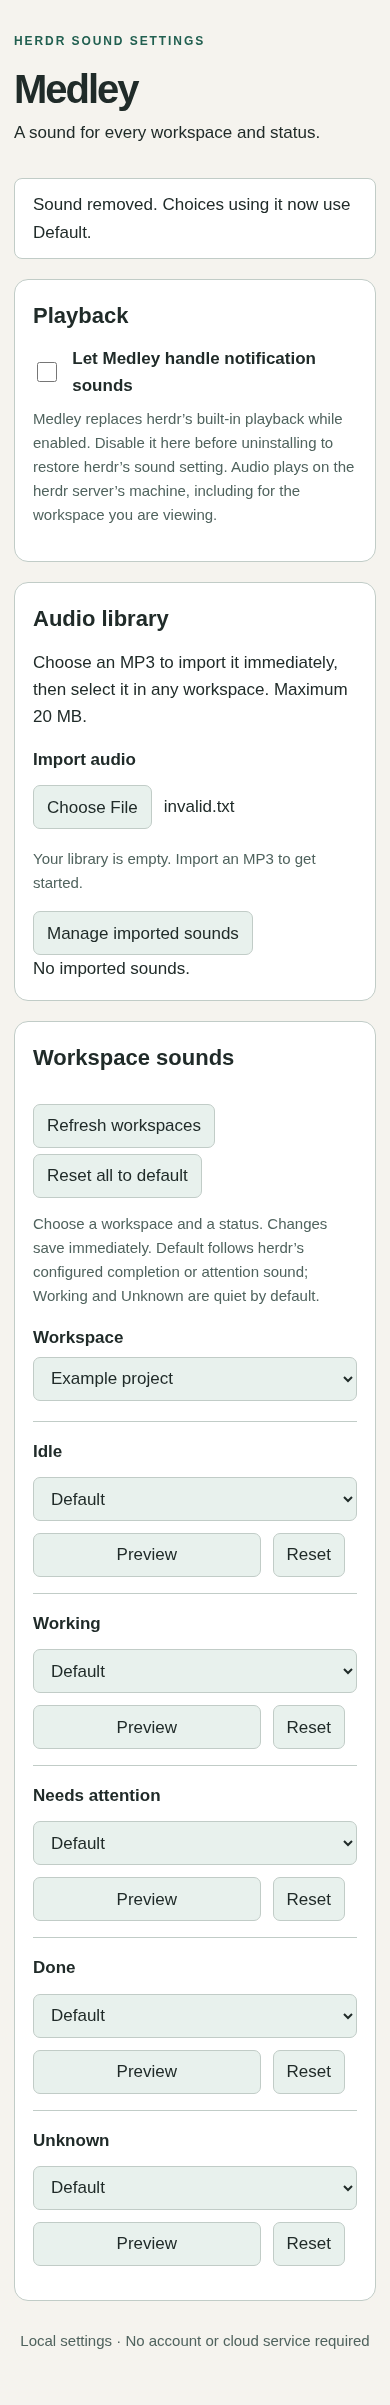
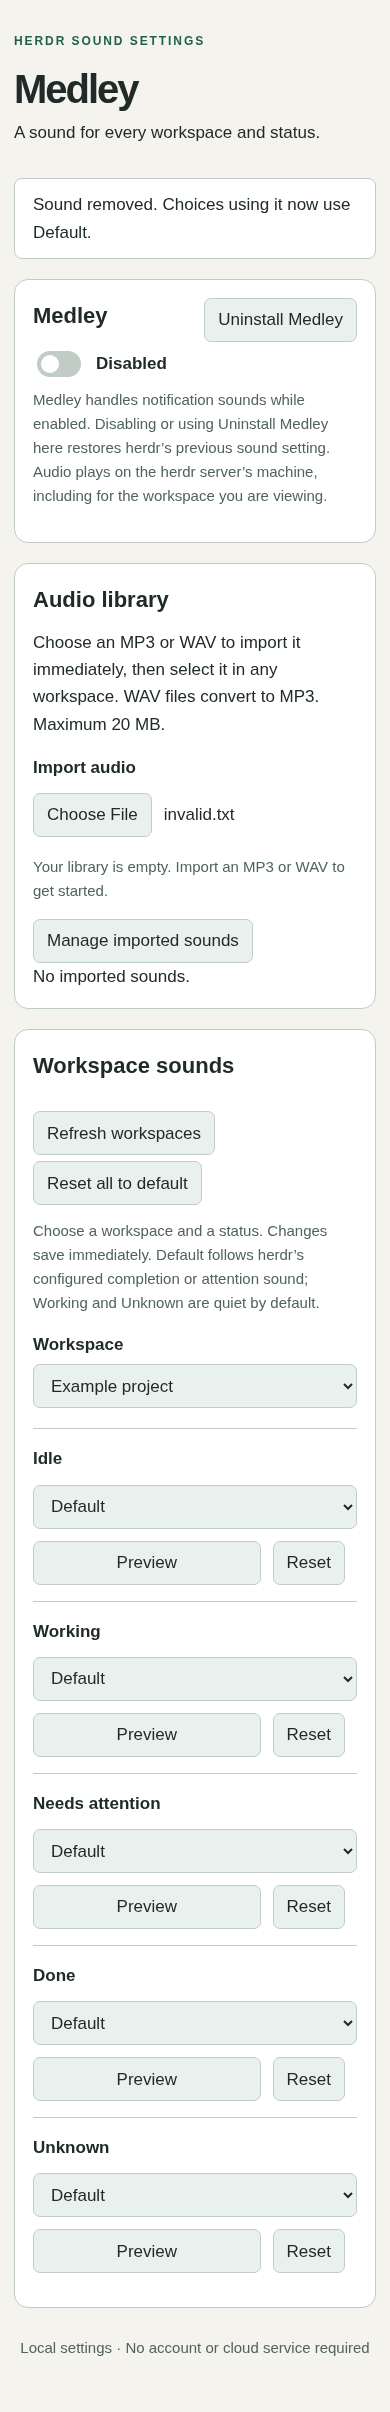
Restore sound on Medley uninstall and support WAV imports

diff --git a/assets/index.html b/assets/index.html
@@ -2,8 +2,8 @@
 <html lang="en"><head><meta charset="utf-8"><meta name="viewport" content="width=device-width, initial-scale=1"><title>Medley · Workspace sounds</title><link rel="stylesheet" href="/style.css"><script defer src="/app.js"></script></head>
 <body><main><header><p class="eyebrow">HERDR SOUND SETTINGS</p><h1>Medley</h1><p>A sound for every workspace and status.</p></header>
 <p id="feedback" role="status" aria-live="polite">Loading settings…</p><p id="error" role="alert" hidden></p><audio id="player" controls hidden aria-label="Sound preview"></audio>
-<section aria-labelledby="playback-heading"><h2 id="playback-heading">Playback</h2><label class="toggle"><input type="checkbox" id="enabled"> Let Medley handle notification sounds</label><p class="help">Medley replaces herdr’s built-in playback while enabled. Disable it here before uninstalling to restore herdr’s sound setting. Audio plays on the herdr server’s machine, including for the workspace you are viewing.</p></section>
-<section aria-labelledby="library-heading"><h2 id="library-heading">Audio library</h2><p>Choose an MP3 to import it immediately, then select it in any workspace. Maximum 20 MB.</p><label for="upload">Import audio</label><input type="file" accept=".mp3,audio/mpeg" id="upload"><p id="library" class="help"></p><button id="manage-library" aria-expanded="false" aria-controls="library-files">Manage imported sounds</button><div id="library-files" hidden></div></section>
+<section aria-labelledby="playback-heading"><div class="section-heading"><h2 id="playback-heading">Medley</h2><button id="uninstall">Uninstall Medley</button></div><label class="toggle"><input type="checkbox" role="switch" aria-label="Medley enabled" id="enabled"> <span id="enabled-label">Disabled</span></label><p class="help">Medley handles notification sounds while enabled. Disabling or using Uninstall Medley here restores herdr’s previous sound setting. Audio plays on the herdr server’s machine, including for the workspace you are viewing.</p></section>
+<section aria-labelledby="library-heading"><h2 id="library-heading">Audio library</h2><p>Choose an MP3 or WAV to import it immediately, then select it in any workspace. WAV files convert to MP3. Maximum 20 MB.</p><label for="upload">Import audio</label><input type="file" accept=".mp3,.wav,audio/mpeg,audio/wav" id="upload"><p id="library" class="help"></p><button id="manage-library" aria-expanded="false" aria-controls="library-files">Manage imported sounds</button><div id="library-files" hidden></div></section>
 <section aria-labelledby="rules-heading"><div class="section-heading"><h2 id="rules-heading">Workspace sounds</h2><div><button id="refresh">Refresh workspaces</button> <button id="reset">Reset all to default</button> <button id="undo" hidden>Undo reset</button></div></div><p class="help">Choose a workspace and a status. Changes save immediately. Default follows herdr’s configured completion or attention sound; Working and Unknown are quiet by default.</p>
 <div class="filters"><div><label for="workspace">Workspace</label><select id="workspace"></select></div></div><div id="rules"></div></section>
 <footer>Local settings · No account or cloud service required</footer></main></body></html>

diff --git a/assets/style.css b/assets/style.css
@@ -1,3 +1,5 @@
 :root{color-scheme:light dark;--bg:#f5f3ee;--panel:#fff;--ink:#202b29;--muted:#50635e;--border:#c1ccc7;--accent:#215f50;--button:#e8f1ed;--error:#9c2222}*{box-sizing:border-box}body{margin:0;background:var(--bg);color:var(--ink);font:1.0625rem/1.6 system-ui,sans-serif}main{max-width:1040px;margin:auto;padding:40px 24px}header{margin-bottom:32px}h1{font-size:48px;line-height:1.1;letter-spacing:-2px;margin:8px 0}h2{font-size:22px;margin:0 0 12px}.eyebrow{font-size:12px;font-weight:750;letter-spacing:.16em;color:var(--accent)}section{background:var(--panel);border:1px solid var(--border);border-radius:14px;padding:24px;margin:20px 0}p{margin:8px 0 16px}.help,footer{font-size:.9375rem;color:var(--muted)}button,select,input{font:inherit}button,select,input::file-selector-button{background:var(--button);color:var(--ink);border:1px solid var(--border);border-radius:7px;min-height:44px;padding:7px 13px}button,input::file-selector-button{cursor:pointer}input::file-selector-button{font:inherit;margin-right:12px}button:hover,input::file-selector-button:hover{border-color:var(--accent)}button:disabled,input:disabled::file-selector-button{opacity:.6;cursor:wait}:focus-visible{outline:3px solid var(--accent);outline-offset:3px}label{display:block;font-weight:600;margin-bottom:6px}.toggle{display:flex;gap:12px;align-items:center}.toggle input{width:22px;height:22px}input[type=file]{max-width:100%;margin:6px 8px 10px 0}.section-heading{display:flex;justify-content:space-between;gap:16px;flex-wrap:wrap}.section-heading button{margin-bottom:6px}.filters select{width:100%;max-width:550px;margin-bottom:20px}.rule{display:grid;grid-template-columns:150px minmax(160px,1fr) auto auto;align-items:center;gap:12px;padding:16px 0;border-top:1px solid var(--border)}.rule label{margin:0}.rule select{min-width:0;width:100%}#feedback{background:var(--panel);border:1px solid var(--border);padding:12px 18px;border-radius:8px}#error{color:var(--error);font-weight:600}footer{text-align:center;margin:28px 0}@media(max-width:640px){main{padding:24px 14px}section{padding:18px}.rule{grid-template-columns:1fr auto auto}.rule label{grid-column:1/-1}.rule select{grid-column:1/-1}h1{font-size:40px}}@media(prefers-color-scheme:dark){:root{--bg:#111b19;--panel:#1b2824;--ink:#edf3ef;--muted:#b2c6bd;--border:#4e665c;--accent:#9ad9bc;--button:#283d34;--error:#ffb3ad}}
 
 .library-file{display:flex;align-items:center;justify-content:space-between;gap:16px;padding:12px 0;border-bottom:1px solid var(--border)}.library-file span{overflow-wrap:anywhere;min-width:0}
+
+.toggle input[role=switch]{appearance:none;width:44px;height:26px;border-radius:16px;background:var(--border);position:relative;flex-shrink:0;cursor:pointer}.toggle input[role=switch]::before{content:'';position:absolute;width:18px;height:18px;border-radius:50%;left:4px;top:4px;background:var(--panel)}.toggle input[role=switch]:checked{background:var(--accent)}.toggle input[role=switch]:checked::before{left:22px}

diff --git a/assets/app.js b/assets/app.js
@@ -77,7 +77,8 @@ async function load() {
   const selected = $('workspace').value;
   model = await request('/api');
   $('enabled').checked = model.settings.enabled;
-  $('library').textContent = model.audio.length ? model.audio.length + ' audio files available.' : 'Your library is empty. Import an MP3 to get started.';
+  $('enabled-label').textContent = model.settings.enabled ? 'Enabled' : 'Disabled';
+  $('library').textContent = model.audio.length ? model.audio.length + ' audio files available.' : 'Your library is empty. Import an MP3 or WAV to get started.';
   $('workspace').replaceChildren(...model.workspaces.map(w => option(w.workspace_id,w.label || w.workspace_id)));
   if (model.workspaces.some(w => w.workspace_id === selected)) $('workspace').value = selected;
   drawRules();
@@ -92,9 +93,19 @@ $('upload').onchange = () => {
   if (!$('upload').files.length) return;
   return run('Audio imported. Select it for any status below.',async () => {
   const file = $('upload').files[0];
-  if (!file || !file.name.toLowerCase().endsWith('.mp3') || file.size > 20*1024*1024) throw new Error('Choose an MP3 file up to 20 MB.');
+  if (!file || !(/\.(mp3|wav)$/i).test(file.name) || file.size > 20*1024*1024) throw new Error('Choose an MP3 or WAV file up to 20 MB.');
   const content = await new Promise((resolve,reject) => {const reader = new FileReader();reader.onload = () => resolve(reader.result.split(',')[1]);reader.onerror = () => reject(new Error('The file could not be read.'));reader.readAsDataURL(file);});
   await request('/upload',{name:file.name,content});$('upload').value = '';await load();
   });
 };
 run('Settings ready. Changes save immediately.',load);
+
+$('uninstall').onclick = () => {
+  if (!confirm('Uninstall Medley? Herdr’s previous sound setting will be restored first. Your imported sounds and saved choices will be kept.')) return;
+  return run('Medley uninstalled. You can close this tab.',async () => {
+    await request('/uninstall',{});
+    $('player').pause();
+    $('enabled').checked=false; $('enabled-label').textContent='Disabled';
+    document.querySelectorAll('section').forEach(section=>section.hidden=true);
+  });
+};

diff --git a/medley/core.py b/medley/core.py
@@ -80,21 +80,38 @@ def library():
 
 
 def import_audio(name, content):
-    if not name.lower().endswith('.mp3') or not content or len(content) > MAX_AUDIO:
-        raise ValueError('Choose an MP3 file between 1 byte and 20 MB.')
+    if not name.lower().endswith(('.mp3', '.wav')) or not content or len(content) > MAX_AUDIO:
+        raise ValueError('Choose an MP3 or WAV file between 1 byte and 20 MB.')
     if not shutil.which('ffprobe'):
         raise ValueError('Install ffmpeg to validate imported audio.')
     directory = config_dir() / 'audio'
     directory.mkdir(parents=True, exist_ok=True, mode=0o700)
-    fd, temporary = tempfile.mkstemp(suffix='.mp3', dir=directory)
+    fd, temporary = tempfile.mkstemp(suffix=Path(name).suffix.lower(), dir=directory)
     try:
         with os.fdopen(fd, 'wb') as stream:
             stream.write(content)
-        probe = subprocess.run(['ffprobe', '-v', 'error', '-show_entries', 'stream=codec_name,codec_type',
+        probe = subprocess.run(['ffprobe', '-v', 'error', '-show_entries', 'stream=codec_name,codec_type:format=format_name',
                                 '-of', 'json', temporary], capture_output=True, text=True, timeout=10)
-        streams = json.loads(probe.stdout or '{}').get('streams', [])
-        if probe.returncode or not any(s.get('codec_type') == 'audio' and s.get('codec_name') == 'mp3' for s in streams):
-            raise ValueError('This file does not contain valid MP3 audio.')
+        metadata = json.loads(probe.stdout or '{}')
+        streams = metadata.get('streams', [])
+        if probe.returncode or not any(s.get('codec_type') == 'audio' and (s.get('codec_name') == 'mp3' if name.lower().endswith('.mp3') else metadata.get('format', {}).get('format_name') == 'wav') for s in streams):
+            raise ValueError('This file does not contain valid MP3 or WAV audio.')
+        if name.lower().endswith('.wav'):
+            if not streams or not any(stream.get('codec_type') == 'audio' for stream in streams):
+                raise ValueError('This file does not contain valid WAV audio.')
+            converted = temporary + '.mp3'
+            try:
+                subprocess.run(['ffmpeg', '-nostdin', '-v', 'error', '-i', temporary,
+                                '-map', '0:a:0', '-vn', '-codec:a', 'libmp3lame', '-q:a', '2',
+                                '-fs', str(MAX_AUDIO + 1), '-y', converted],
+                               check=True, capture_output=True, timeout=30)
+                content = Path(converted).read_bytes()
+                if not content or len(content) > MAX_AUDIO:
+                    raise ValueError('Converted audio exceeds the 20 MB limit.')
+                os.replace(converted, temporary)
+            finally:
+                Path(converted).unlink(missing_ok=True)
+            name = str(Path(name).with_suffix('.mp3'))
         key = hashlib.sha256(content).hexdigest()
         with locked(config_dir()):
             os.replace(temporary, directory / (key + '.mp3'))
@@ -267,3 +284,12 @@ def activate(enabled):
         path.write_text(original)
         subprocess.run([os.environ.get('HERDR_BIN_PATH', 'herdr'), 'server', 'reload-config'], capture_output=True, timeout=8)
         raise
+
+
+def uninstall():
+    activate(False)
+    try:
+        subprocess.run([os.environ.get('HERDR_BIN_PATH', 'herdr'), 'plugin', 'uninstall', 'medley'],
+                       check=True, capture_output=True, timeout=15)
+    except Exception as error:
+        raise ValueError('Medley is disabled, but uninstall failed. Retry Uninstall or run herdr plugin uninstall medley.') from error

diff --git a/tests/test_medley.py b/tests/test_medley.py
@@ -64,6 +64,34 @@ class MedleyTests(unittest.TestCase):
             with self.assertRaises(ValueError):
                 core.remove_audio(invalid)
 
+    def test_wav_import_converts_to_mp3(self):
+        import io
+        import wave
+        stream = io.BytesIO()
+        with wave.open(stream, 'wb') as wav:
+            wav.setnchannels(1)
+            wav.setsampwidth(2)
+            wav.setframerate(16000)
+            wav.writeframes(b'\x00\x00' * 1600)
+        key = core.import_audio('example.WAV', stream.getvalue())
+        audio = core.config_dir() / 'audio' / (key + '.mp3')
+        result = subprocess.run(['ffprobe', '-v', 'error', '-show_entries', 'stream=codec_name', '-of', 'json', str(audio)], capture_output=True, text=True, check=True)
+        self.assertEqual(json.loads(result.stdout)['streams'][0]['codec_name'], 'mp3')
+        self.assertEqual(core.library()[0]['name'], 'example.mp3')
+
+    def test_uninstall_restores_before_unregistering(self):
+        calls = []
+        with patch.object(core, 'activate', side_effect=lambda value: calls.append(('enabled', value))), patch.object(core.subprocess, 'run', side_effect=lambda *args, **kwargs: calls.append(args[0])):
+            core.uninstall()
+        self.assertEqual(calls[0], ('enabled', False))
+        self.assertEqual(calls[1][-3:], ['plugin', 'uninstall', 'medley'])
+
+    def test_failed_restore_prevents_uninstall(self):
+        with patch.object(core, 'activate', side_effect=ValueError('restore failed')), patch.object(core.subprocess, 'run') as command:
+            with self.assertRaises(ValueError):
+                core.uninstall()
+            command.assert_not_called()
+
     def test_invalid_import(self):
         for name, content in [('file.wav', b'x'), ('file.mp3', b''), ('file.mp3', b'invalid audio')]:
             with self.assertRaises(ValueError):

diff --git a/medley/app.py b/medley/app.py
@@ -59,7 +59,9 @@ def serve(open_browser=True, port=0):
                 if not 0 < length <= core.MAX_AUDIO * 2:
                     raise ValueError('Request is empty or too large. Maximum audio size is 20 MB.')
                 data = json.loads(self.rfile.read(length))
-                if self.path == '/remove':
+                if self.path == '/uninstall':
+                    core.uninstall()
+                elif self.path == '/remove':
                     core.remove_audio(data['id'])
                 elif self.path == '/rule':
                     core.set_rule(data['workspace'], data['status'], data['choice'])
@@ -115,7 +117,7 @@ def serve(open_browser=True, port=0):
 
 def main():
     parser = argparse.ArgumentParser(description='Medley — workspace sounds for herdr')
-    parser.add_argument('command', choices=['settings', 'event', 'enable', 'disable', 'import'])
+    parser.add_argument('command', choices=['settings', 'event', 'enable', 'disable', 'uninstall', 'import'])
     parser.add_argument('path', nargs='?')
     parser.add_argument('--no-browser', action='store_true')
     parser.add_argument('--port', type=int, default=0)
@@ -129,6 +131,8 @@ def main():
             core.activate(True)
         elif args.command == 'disable':
             core.activate(False)
+        elif args.command == 'uninstall':
+            core.uninstall()
         elif args.command == 'import':
             if not args.path:
                 parser.error('import requires a file path')

diff --git a/tests/browser_fixture.py b/tests/browser_fixture.py
@@ -16,4 +16,5 @@ with tempfile.TemporaryDirectory() as directory:
         {'workspace_id': 'w1', 'label': 'Example project', 'agent_status': 'idle'},
         {'workspace_id': 'w2', 'label': 'Research', 'agent_status': 'working'},
     ]
+    core.uninstall = lambda: core.update(lambda data: data.update(enabled=False))
     serve(False)

diff --git a/README.md b/README.md
@@ -1,8 +1,8 @@
 # Medley
 
-Choose an audio file for each **herdr workspace × status**. Import MP3s into a reusable library, preview a choice, select **None** for quiet, or reset one choice or all choices to default.
+Choose an audio file for each **herdr workspace × status**. Import MP3s or WAVs into a reusable library, preview a choice, select **None** for quiet, or reset one choice or all choices to default.
 
-Medley is a local herdr plugin for Linux and macOS. Python 3.11+ and herdr 0.9.1+ are required. Install **ffmpeg** for MP3 validation and Linux playback; macOS uses `afplay` for playback and still requires ffmpeg for importing.
+Medley is a local herdr plugin for Linux and macOS. Python 3.11+ and herdr 0.9.1+ are required. Install **ffmpeg** for audio validation and WAV conversion and Linux playback; macOS uses `afplay` for playback and still requires ffmpeg for importing.
 
 ## Install
 
@@ -11,7 +11,7 @@ herdr plugin install dreinecke/medley
 herdr plugin action invoke medley.settings
 ```
 
-In settings, enable **Let Medley handle notification sounds**. This disables herdr's native sound playback to prevent duplicates. Turning Medley off restores the previous native sound-enabled setting. No herdr server restart is needed.
+In settings, use the **Enabled/Disabled** toggle. This disables herdr's native sound playback to prevent duplicates. Turning Medley off restores the previous native sound-enabled setting. No herdr server restart is needed.
 
 For a local checkout:
 
@@ -26,7 +26,7 @@ The settings command prints a private localhost URL and opens it in your browser
 
 ## Choose your sounds
 
-1. Choose an MP3, up to 20 MB; it imports immediately without another button press. Medley validates the audio and copies it into its private library, so moving or deleting the original does not break playback.
+1. Choose an MP3 or WAV, up to 20 MB; it imports immediately without another button press. Medley validates the audio, converts WAV to MP3 locally, and copies it into its private library, so moving or deleting the original does not break playback.
 2. Choose a workspace. Each of its five statuses has a separate audio selection.
 3. Select a library file (displayed without its .mp3 extension), **None · quiet**, or **Default**. Changes save immediately.
 4. Use **Preview** to play the selected sound immediately in your browser. The audio controls remain available to stop or replay it. Silent selections are identified as quiet; if the browser blocks playback, use Play in the controls to retry. **Reset** restores one cell; **Reset all to default** restores every workspace and offers Undo until settings closes or another reset replaces it.
@@ -47,14 +47,9 @@ The audio library and mappings stay outside the checkout under herdr's plugin co
 
 ## Disable or uninstall
 
-**First turn off Medley in its settings**, or run the following from the checkout using the same plugin config environment:
+Use **Uninstall Medley** in settings, or `herdr plugin action invoke medley.uninstall`, to restore the previous sound setting before unregistering the plugin. Imported audio and choices are retained. Restoration failure aborts uninstall.
 
-```sh
-python3 medley.py disable
-herdr plugin unlink medley
-```
-
-Unlinking or disabling the plugin directly cannot restore herdr's muted sound setting automatically. The original config backup is `herdr-config-before-medley.toml` in Medley's config directory; disabling normally changes only `ui.sound.enabled`, preserving subsequent unrelated edits. To recover manually, set `[ui.sound] enabled = true` in herdr's config and run `herdr server reload-config`.
+Unlinking, disabling or uninstalling through herdr’s standard plugin commands cannot restore herdr's muted sound setting automatically. The original config backup is `herdr-config-before-medley.toml` in Medley's config directory; disabling normally changes only `ui.sound.enabled`, preserving subsequent unrelated edits. To recover manually, set `[ui.sound] enabled = true` in herdr's config and run `herdr server reload-config`.
 
 ## Develop
 

diff --git a/docs/validation.md b/docs/validation.md
@@ -174,3 +174,37 @@ Aesthetic-and-clear checks: (1) list initially collapsed; (2) visible named acti
 wrapping long names, mobile overflow test passes; (6) native keyboard controls and
 existing keyboard test pass, screen-reader/manual zoom not independently tested.
 No vendored layout extended. Synthetic captures refreshed by browser tests.
+
+## Enabled switch, safe uninstall and WAV import — 2026-10-20
+
+Top section now has a native checkbox exposed as a switch, Enabled/Disabled state,
+and a separate Uninstall Medley button. Uninstall confirms intent, restores the
+previous sound-enabled value through the existing activation rollback path, then
+unregisters Medley. Config/audio remain. No real installation was removed in testing.
+The same operation is exposed as medley.uninstall. Standard herdr removal still
+bypasses cleanup because herdr 0.9.5 has no uninstall lifecycle hook.
+
+WAV files are validated as WAV audio, converted locally with ffmpeg to MP3, and
+stored under the converted content hash. Input/output limits are 20 MB, conversion
+has a 30-second timeout, temporary files are cleaned on failure. Existing MP3s are
+not re-encoded. A real synthetic WAV conversion was decoded with ffprobe as MP3.
+15 Python tests passed, including restoration-before-unregister and abort-on-restore
+failure. Chromium checks passed, including cancel/confirm uninstall against a
+fixture that does not invoke real herdr. Synthetic layout captures refreshed.
+
+Control-and-feedback: 1 busy/success messages retained; 2 uninstall cancellable,
+settings retained; 3 confirmation and restore-before-remove prevent muted uninstall;
+4 failed unregister explains disabled state and retry; 5 failures preserve library;
+6 immediate busy response; 7 conversion bounded by timeout and size, busy state
+provided; 8 no new navigation, uninstall ends with close-tab guidance.
+Input-and-interaction: 1 MP3/WAV and size validation; 2 actionable file errors;
+3 native switch with accessible label, native uninstall button; 4 specific destructive
+label and confirmation; 5 saved previous sound state reused; 6 no new reset/clear;
+7 no password fields; 8 switch represents one boolean, dropdowns unchanged.
+Aesthetic-and-clear: 1 top controls grouped without new screen; 2 named standard
+controls; 3 no animated motion; 4 headings/state text retained; 5 theme tokens and
+scalable fonts reused, mobile overflow test passed; 6 keyboard browser test passes,
+manual screen-reader and magnification testing not performed.
+Vendored block contract: none. Security: PASS for authenticated endpoint routing,
+argv subprocess execution, audio validation and bounded conversion; no cloud upload
+or new network boundary. Actual live uninstall deliberately not exercised.

diff --git a/docs/architecture.md b/docs/architecture.md
@@ -22,4 +22,6 @@ Activation seeds the baseline and changes only `ui.sound.enabled` in herdr's con
 
 The server binds only to 127.0.0.1 on an ephemeral port. The launch URL has a random token in its fragment; JavaScript stores it in tab session storage, removes the fragment, and supplies it in an API header. All reads of configuration and all mutations require the token. No CORS permission is issued. Static assets contain no secrets. CSP limits scripts/styles to local assets and preview media to blobs. User-controlled labels use textContent, not HTML interpolation.
 
-Uploads are limited to 20 MB and decoded with ffprobe before being copied into the private library. Previews start native browser audio playback on request and retain the controls for stopping or replaying. Quiet selections stop playback; rejected playback requests show a recoverable error. Event playback invokes installed players with argument arrays and a 30-second timeout. There is no shell evaluation or external network request at runtime.
+Uploads are limited to 20 MB and validated with ffprobe. WAV input is converted locally with ffmpeg to MP3, under a 30-second timeout and output-size limit, before entering the private library. Previews start native browser audio playback on request and retain the controls for stopping or replaying. Quiet selections stop playback; rejected playback requests show a recoverable error. Event playback invokes installed players with argument arrays and a 30-second timeout. There is no shell evaluation or external network request at runtime.
+
+The Medley uninstall action restores the saved herdr sound setting first, then invokes herdr plugin uninstall medley. Failure to restore prevents unregistering. Standard herdr removal commands have no cleanup hook and bypass this action.
